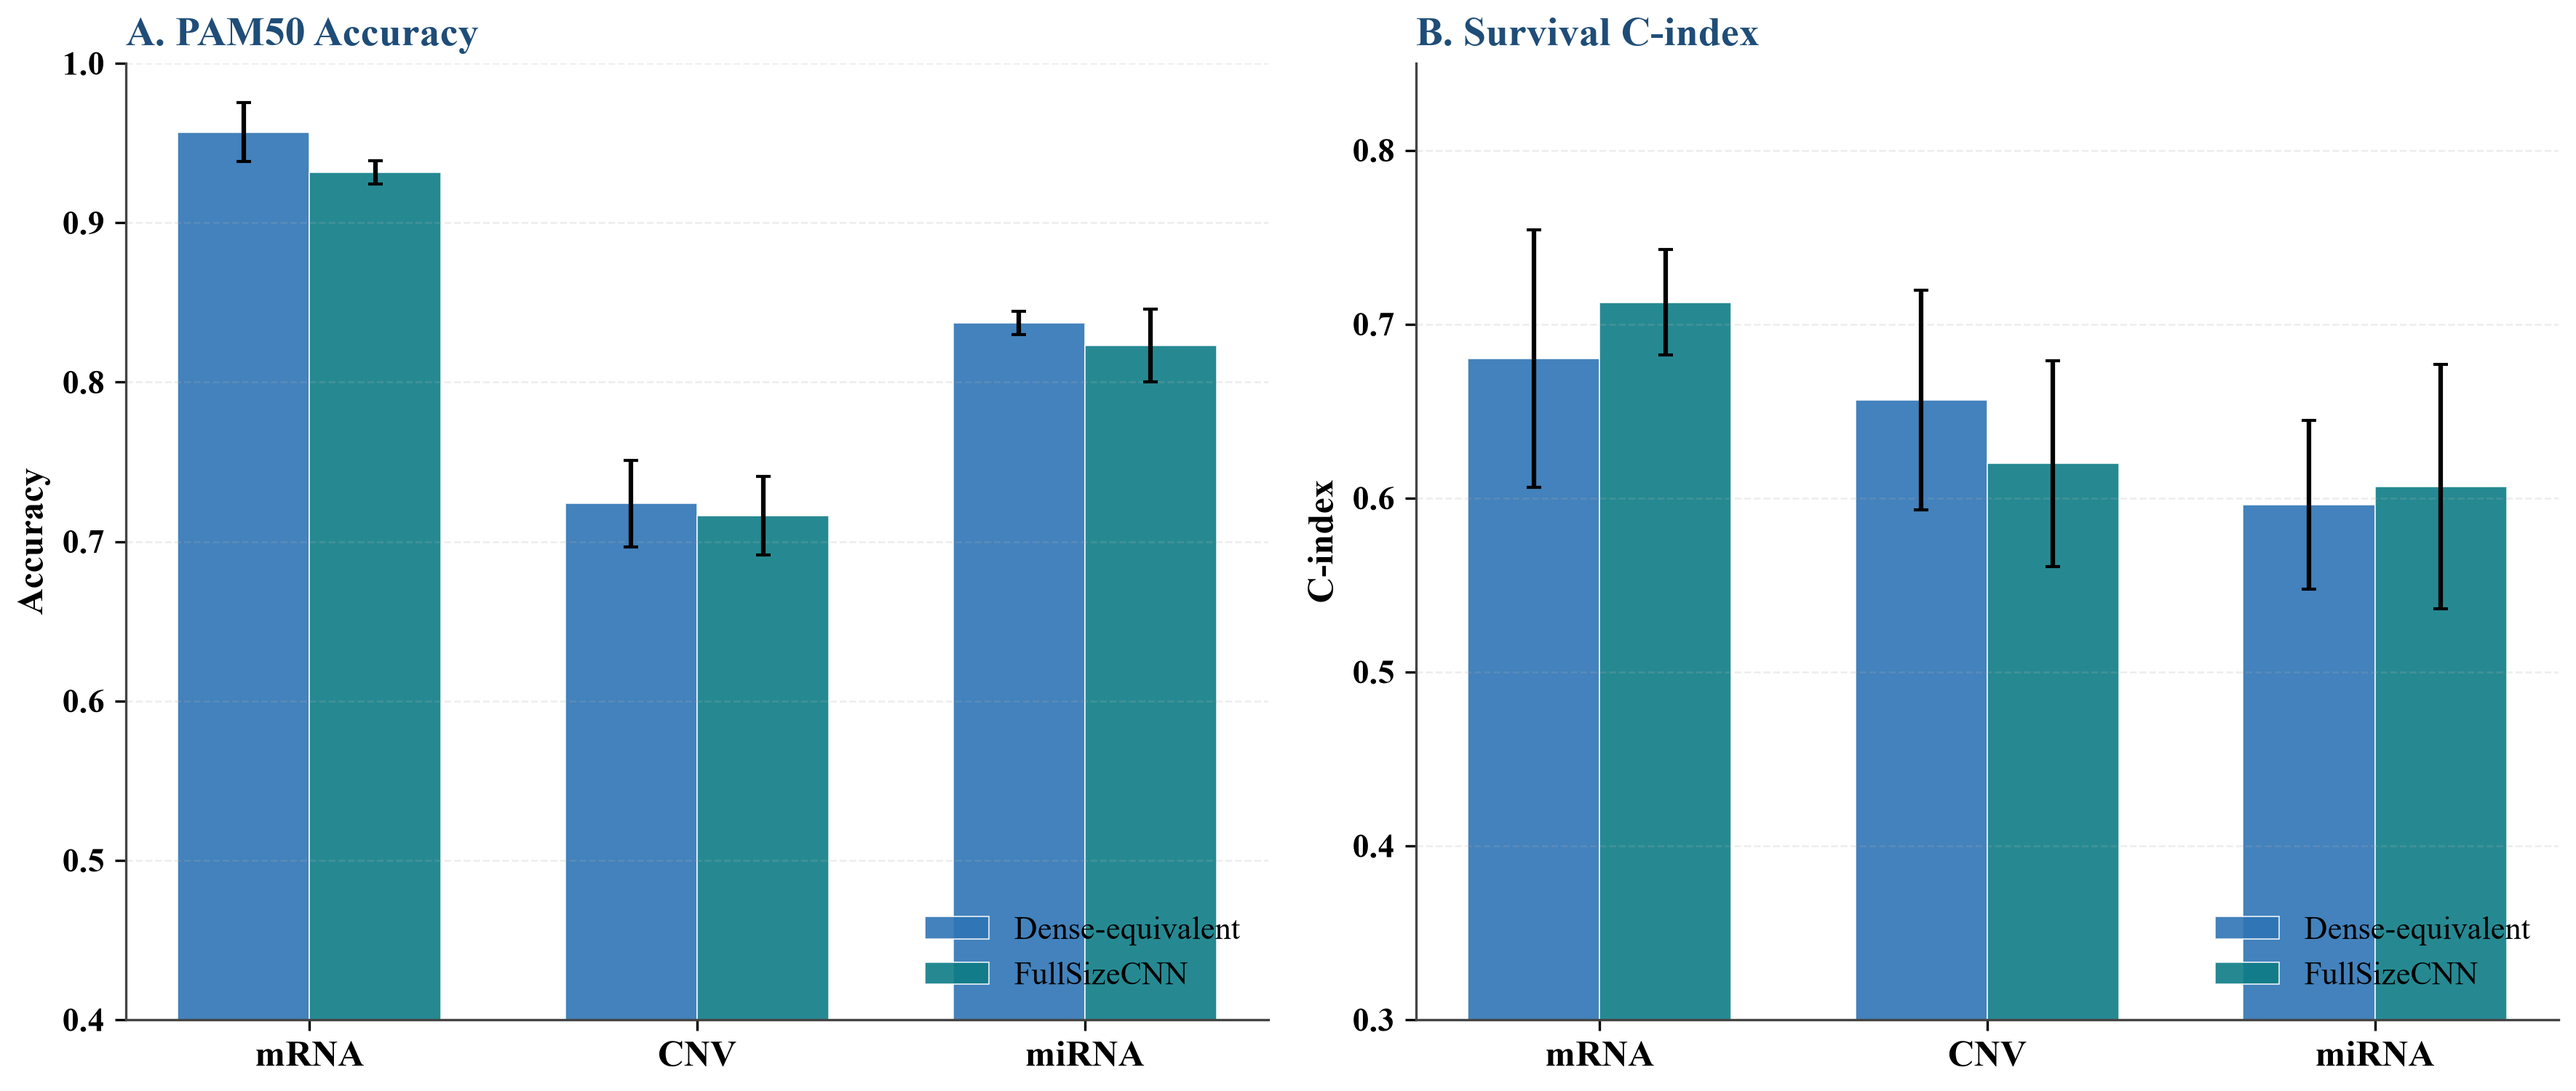
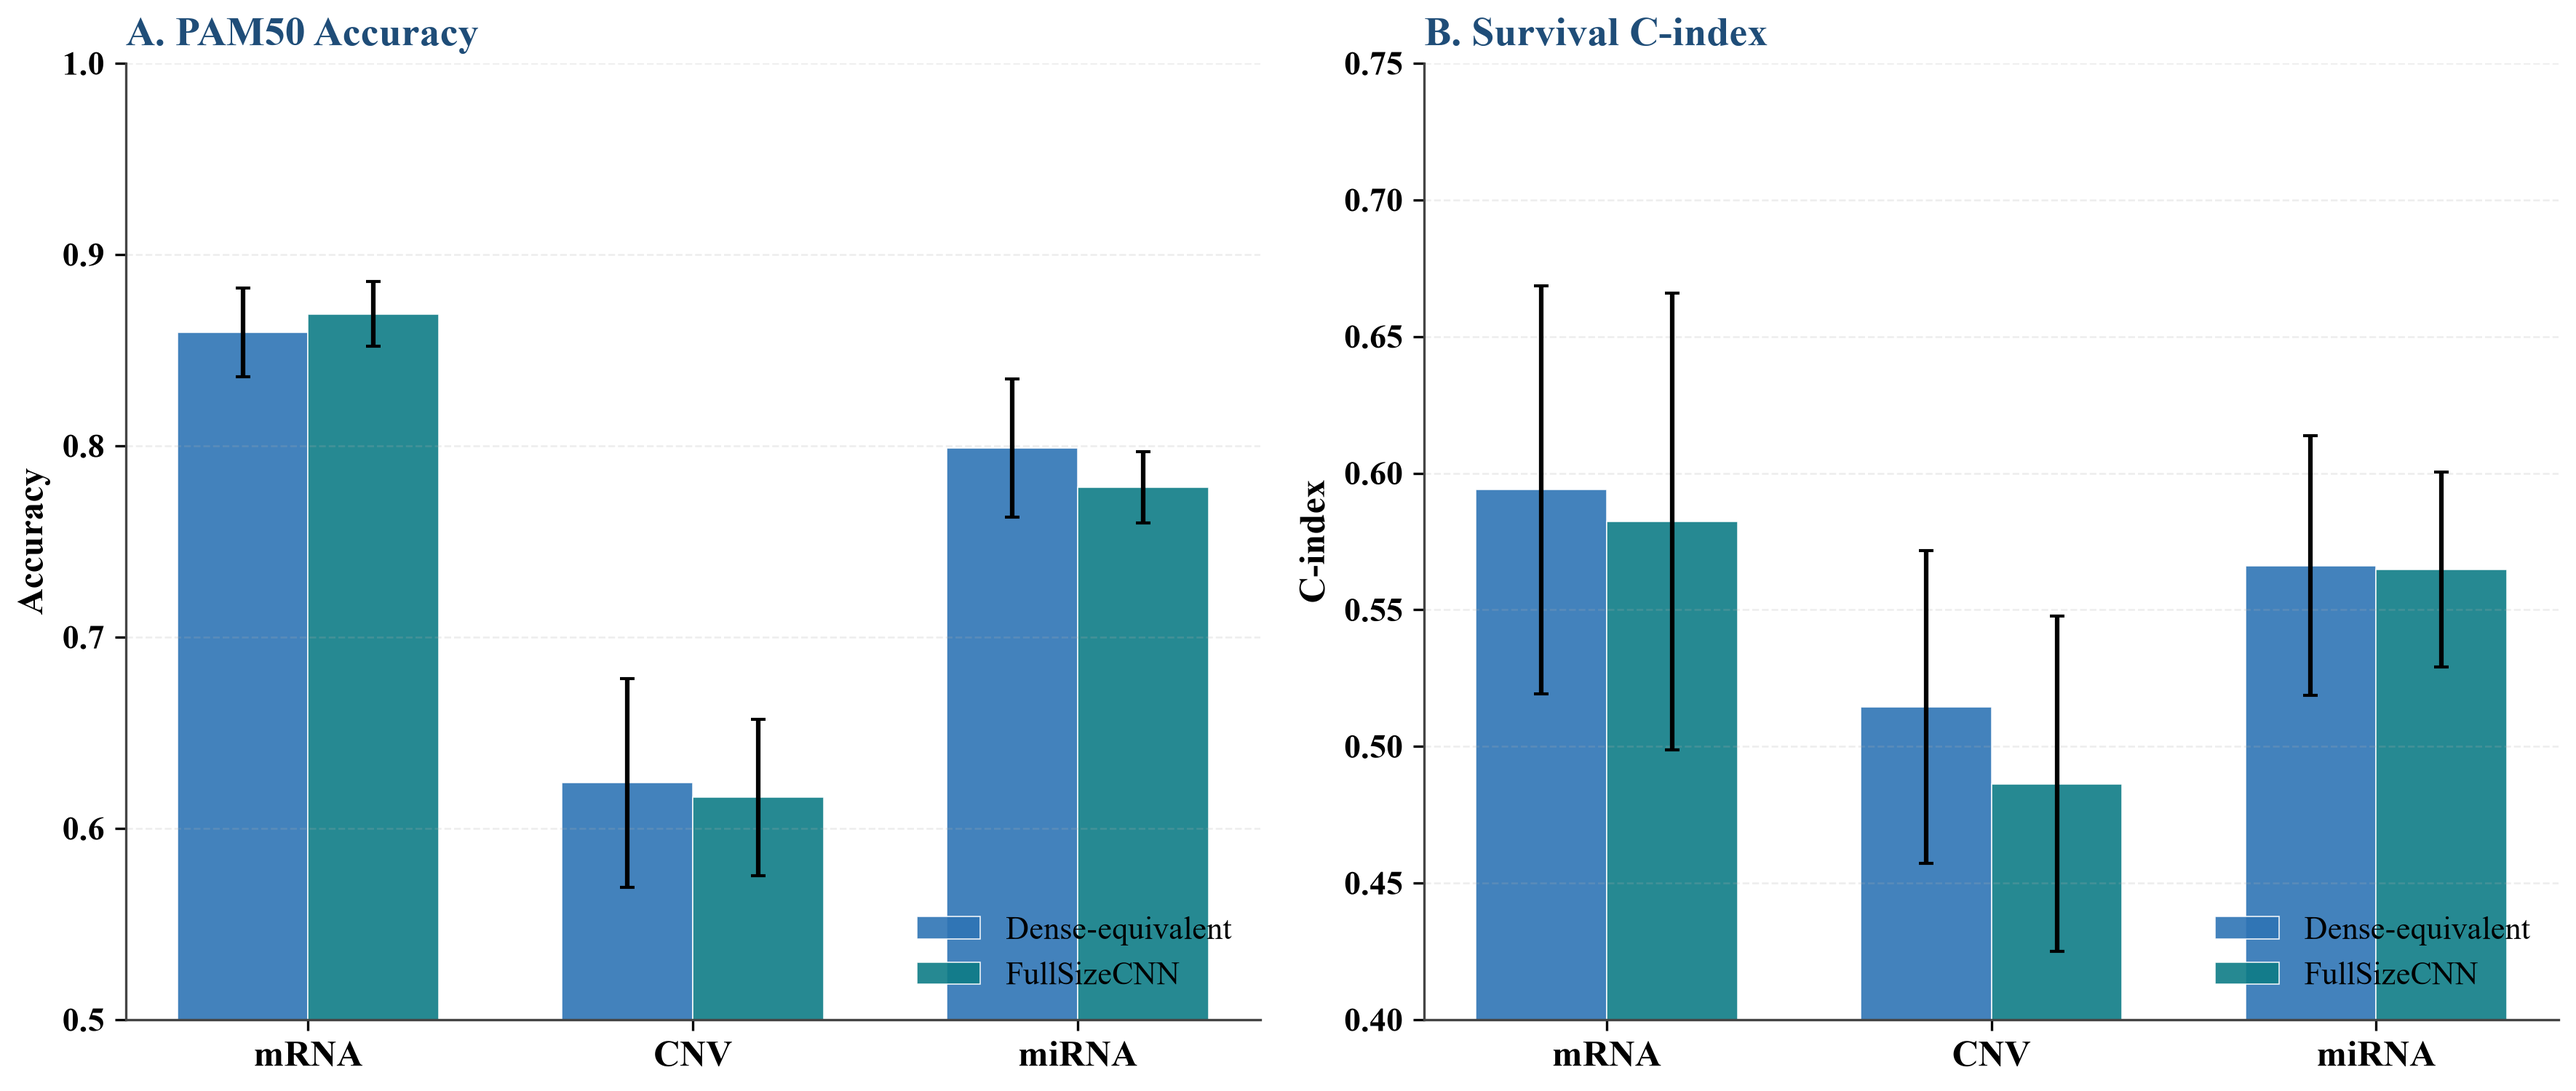
Regenerate dense-equivalent figure from leak-free data
Figure S3 now matches Table S14 leak-free Dense vs FullSizeCNN numbers.

diff --git a/scripts/make_dense_figure_leakfree.py b/scripts/make_dense_figure_leakfree.py
@@ -1,0 +1,78 @@
+# -*- coding: utf-8 -*-
+"""Regenerate Figure S3 (Dense-equivalent vs FullSizeCNN) from leak-free data."""
+from __future__ import annotations
+
+from pathlib import Path
+
+import matplotlib
+matplotlib.use("Agg")
+import matplotlib.pyplot as plt
+import numpy as np
+import pandas as pd
+
+ROOT = Path(r"E:\组学数据图像化")
+SRC = ROOT / "data" / "leakfree_single_omics_results.tsv"
+OUT = ROOT / "data" / "paper_figures" / "fig_dense_equivalent.png"
+
+BLUE = "#2E74B5"
+DARK = "#1F4D78"
+TEAL = "#0E7C86"
+
+plt.rcParams.update({
+    "font.family": "serif",
+    "font.serif": ["Times New Roman", "Times", "DejaVu Serif"],
+    "font.size": 12,
+    "axes.edgecolor": "#444444",
+    "axes.linewidth": 0.8,
+    "figure.dpi": 300,
+    "savefig.bbox": "tight",
+    "savefig.pad_inches": 0.08,
+})
+
+
+def main():
+    df = pd.read_csv(SRC, sep="\t")
+    dense = df[df["model"] == "Dense"]
+    cnn = df[df["model"] == "FullSizeCNN"]
+
+    panels = [
+        ("PAM50", "accuracy", "A. PAM50 Accuracy", "Accuracy", (0.5, 1.0)),
+        ("Survival", "c_index", "B. Survival C-index", "C-index", (0.4, 0.75)),
+    ]
+    omics_order = ["mRNA", "CNV", "miRNA"]
+    colors = [BLUE, TEAL]
+
+    fig, axes = plt.subplots(1, 2, figsize=(12.0, 5.2))
+    for ax, (task, metric, title, ylabel, ylim) in zip(axes, panels):
+        x = np.arange(len(omics_order))
+        width = 0.34
+        for i, (sub, label) in enumerate([(dense, "Dense-equivalent"), (cnn, "FullSizeCNN")]):
+            vals, errs = [], []
+            for omics in omics_order:
+                row = sub[(sub["omics"] == omics) & (sub["task"] == task) & (sub["metric"] == metric)]
+                vals.append(float(row["mean"].iloc[0]))
+                errs.append(float(row["std"].iloc[0]))
+            ax.bar(x + (i - 0.5) * width, vals, yerr=errs, width=width, capsize=2.5,
+                   color=colors[i], alpha=0.9, edgecolor="white", linewidth=0.4, label=label)
+        ax.set_xticks(x)
+        ax.set_xticklabels(omics_order, fontsize=12, fontweight="bold")
+        ax.set_ylabel(ylabel, fontsize=12, fontweight="bold")
+        ax.set_title(title, loc="left", fontweight="bold", color=DARK, fontsize=13.5)
+        ax.set_ylim(*ylim)
+        ax.grid(axis="y", linestyle="--", alpha=0.22, linewidth=0.6)
+        ax.spines["top"].set_visible(False)
+        ax.spines["right"].set_visible(False)
+        ax.tick_params(axis="y", labelsize=11)
+        for label in ax.get_yticklabels():
+            label.set_fontweight("bold")
+        ax.legend(fontsize=10.5, frameon=False, loc="lower right")
+
+    fig.tight_layout()
+    OUT.parent.mkdir(parents=True, exist_ok=True)
+    fig.savefig(OUT, dpi=300)
+    plt.close(fig)
+    print("wrote", OUT)
+
+
+if __name__ == "__main__":
+    main()
